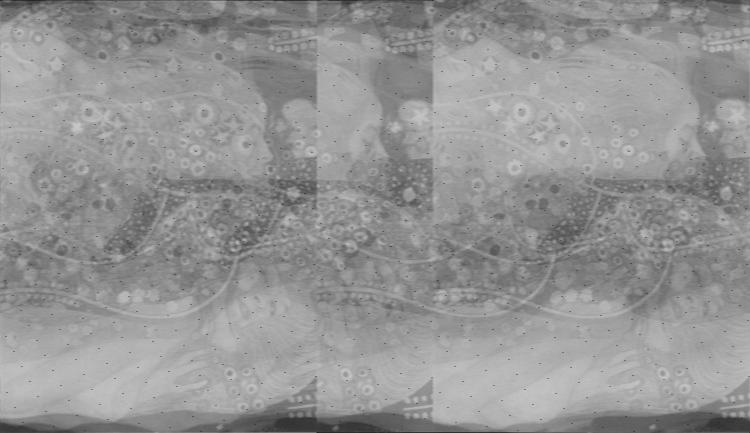
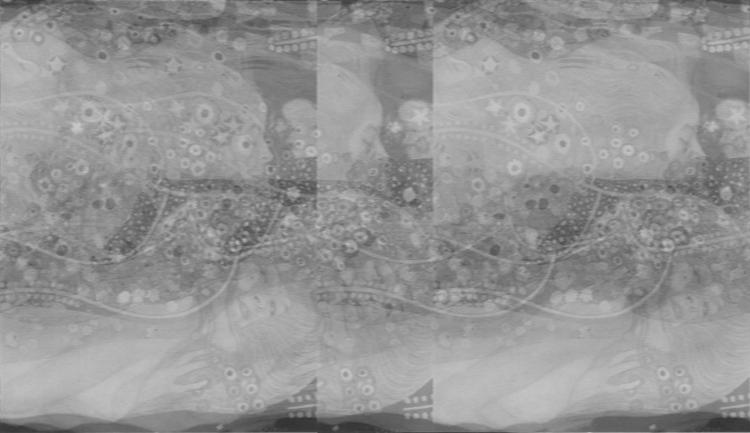
interfaz

Changed region(s): [[0.6133, 0.9908, 1.0, 1.0], [0.5213, 0.9908, 0.5827, 1.0]]

diff --git a/ImagesAnalisis/Filtros.py b/ImagesAnalisis/Filtros.py
@@ -1,7 +1,7 @@
 from PIL import Image
 import Operaciones
 import matplotlib.pyplot as plt
-
+import time
 '''
 def crearMat(data,size):
     matriz = []
@@ -28,10 +28,35 @@ def promediar(matriz, size):
     datosc = []
     for i in range (size[0]):
         for j in range(size[1]):
-         datosc.append(suma(i,j,matriz,size))
+          #  pass
+           datosc.append(suma(i,j,matriz,size)) 
     return datosc
 
 def suma(x,y, matriz, size):
+    ax = x-1
+    ay = y -1
+    lista = []
+    for i in range (ax, ax+3):
+        for j in range (ay, ay+3):
+            
+    '''
+    prom = 0.0 
+    c = 0
+    ax = x-1
+    ay = y -1 
+    for i in range (ax, ax+3):
+        for j in range (ay, ay+3):
+            try:
+                if (i>=0 and j>=0):
+                    time.sleep(.01) 
+                    print(str(i)+" , "+str(j))
+                    prom = prom+ matriz[i][j]
+                    c = c+1
+            except IndexError:
+                prom = prom
+    
+    return int (prom/c)
+    
     prom = 0
     c = 0
     rx = range (x-1,x+1)
@@ -46,10 +71,12 @@ def suma(x,y, matriz, size):
             #    c = c + 1
     print (int(prom/9))
     return int(prom/9)
+    '''
 
 def pasa_bajas_prom(img):
     img = image.convert('L')
     datos = img.getdata()
+    print (img.size)
     matriz = crearMat(datos, img.size)
     datosn = promediar(matriz, img.size)
     imgg  = Image.new( 'L',img.size )
@@ -57,11 +84,10 @@ def pasa_bajas_prom(img):
     imgg.save("filtro-promedio.jpg")
     imgg.show()
 
-
-
+#analisisimagenesescom
 #image = Image.open("tile.png")
 image = Image.open("snakes.jpg")
-image.show()
+#image.show()
 #histogramaRGB("snakes.jpg")
 pasa_bajas_prom(image)
 

diff --git a/ImagesAnalisis/Ruido.py b/ImagesAnalisis/Ruido.py
@@ -1,0 +1,57 @@
+from PIL import Image
+from random import uniform
+import Operaciones
+import matplotlib.pyplot as plt
+
+def additivo (img, valor):
+    img = image.convert('L')
+    datos = img.getdata()
+    datosn = []
+    for i in range (len (datos)):
+        r = uniform(0,1)
+        if (r <=  valor ):
+            datosn.append((0))
+        else :
+            datosn.append(datos[i])
+    imgg  = Image.new( 'L',img.size )
+    imgg.putdata(datosn)
+    imgg.save("ruidoAdd.jpg")
+    imgg.show()
+def sustractivo (img, valor):
+    img = image.convert('L')
+    datos = img.getdata()
+    datosn = []
+    for i in range (len (datos)):
+        r = uniform(0,1)
+        if (r <=  valor ):
+            datosn.append((255))
+        else :
+            datosn.append(datos[i])
+    imgg  = Image.new( 'L',img.size )
+    imgg.putdata(datosn)
+    imgg.save("ruidoAdd.jpg")
+    imgg.show()
+
+def pimienta (img, valor):
+    img = image.convert('L')
+    datos = img.getdata()
+    datosn = []
+    for i in range (len (datos)):
+        r = uniform(0,1)
+        if (r <  valor/2 ):
+            datosn.append((255))
+        elif (r<= valor):
+            datosn.append((0))
+        else :
+            datosn.append(datos[i])
+    imgg  = Image.new( 'L',img.size )
+    imgg.putdata(datosn)
+    imgg.save("ruidoAdd.jpg")
+    imgg.show()
+
+
+image = Image.open("snakes.jpg")
+sustractivo(image,.1)
+additivo(image,.1)
+pimienta(image,.2)
+    

diff --git a/ImagesAnalisis/interfaz.py b/ImagesAnalisis/interfaz.py
@@ -1,0 +1,52 @@
+import tkinter as tk
+from tkinter import filedialog
+from PIL import ImageTk, Image
+
+def Cerrar():
+    pass
+def funcion():
+   print ("Excelente")
+def win2():
+    tl = tk.Toplevel(root)
+    tl.title("Modificar Datos")
+    tl.geometry('100x100')
+    tl.focus_set()
+    tl.grab_set()
+    tl.transient(master=root)
+
+    inf = tk.StringVar(tl)
+    entry1 = tk.Entry(tl, textvariable=inf)
+    entry1.grid(row=0, column=1)
+    label1 = tk.Label(tl, text='Hija', bg="red")
+    label1.grid(row=0, column=0)
+    b = tk.Button(tl,text="Cerrar",bg="green", command=cerrar)
+
+    b.pack()
+
+
+root = tk.Tk()
+
+pic = "snakes.jpg"
+img = Image.open(pic)
+
+o_size = img.size   #Tamaño original de la imagen
+f_size = (img.size) #Tamaño del canvas donde se mostrará la imagen
+
+'''
+factor = min(float(f_size[1])/o_size[1], float(f_size[0])/o_size[0])
+width = int(o_size[0] * factor)
+height = int(o_size[1] * factor)
+
+rImg= img.resize((width, height), Image.ANTIALIAS)
+'''
+img2 = ImageTk.PhotoImage(img)
+
+canvas = tk.Canvas(root, width=f_size[0], height= f_size[1])
+canvas.create_image(f_size[0]/2, f_size[1]/2, anchor=tk.CENTER, image=img2, tags="img")
+canvas.pack(fill=None, expand=False)
+
+boton = tk.Button(root, text="Que te parece la guía?", command=funcion)
+boton.pack()
+
+boton2 = tk.Button(root, text="Abrir", command=win2).pack()
+root.mainloop()
